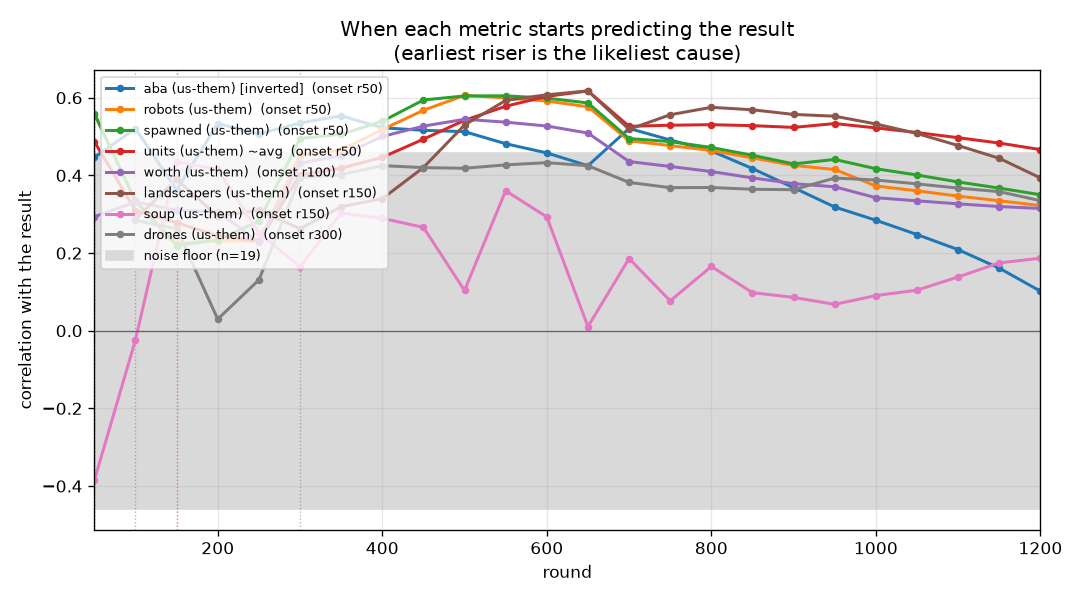
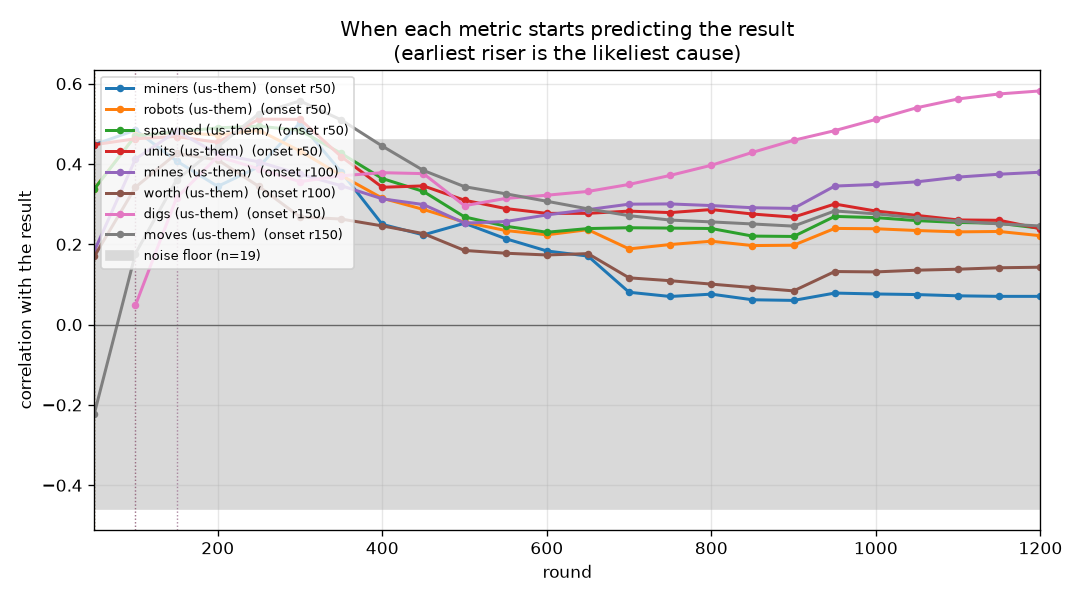
Block 34; miners step off the perch
Claude-Session: https://claude.ai/code/session_01CTUHPRaZ9DbYUkpWKYf2Y2

diff --git a/src/bot/Miner.java b/src/bot/Miner.java
@@ -46,6 +46,9 @@ public strictfp class Miner extends Robot {
             // boxed in (a corner seat on the map edge has only ring tiles and the HQ as neighbours): slide along the ring
             for (int i = 8; --i >= 0;) { Direction d = DIRS[i]; MapLocation n = loc.add(d); if (onRing(n) && rc.canMove(d) && rc.canSenseLocation(n) && !rc.senseFlooding(n)) { rc.move(d); loc = rc.getLocation(); Debug.log("@offring slide"); return; } }
         }
+        if (!builder && MapState.perch != null && MapState.isPerch(loc) && rc.isReady()) {   // Iteration 24: the perch is reserved (a miner idling on V kept it at 9)
+            for (int i = 8; --i >= 0;) { Direction d = DIRS[i]; MapLocation n = loc.add(d); if (!MapState.isPerch(n) && !onRing(n) && !n.equals(MapState.home) && tryMove(d)) { Debug.log("@offperch"); return; } }
+        }
         if (floodDanger() && climb()) return;
         if (nearestEnemy != null && nearestEnemy.type == RobotType.DELIVERY_DRONE && nearestEnemyD2 <= 8 && fleeFrom(nearestEnemy.location)) return;
         if (builder && MapState.perch != null && round >= C.PERCH_ROUND && !perchFailed && perchDuty()) return;   // Iteration 24

diff --git a/src/bot/Landscaper.java b/src/bot/Landscaper.java
@@ -147,6 +147,7 @@ public strictfp class Landscaper extends Robot {
                 MapLocation t = tiles[i]; if (!rc.canSenseLocation(t)) continue;
                 RobotInfo r = rc.senseRobotAtLocation(t);
                 if (r != null && r.type.isBuilding()) continue;                                  // never bury a building
+                if (i < 2 && r != null) continue;                                                  // F and V only when empty (a miner standing on V rode up and blocked the vaporator)
                 if (i == 2 && (r == null || r.type != RobotType.MINER || r.team != us)) continue;   // B only under the builder
                 int e = rc.senseElevation(t); if (e >= target || e >= be || (i < 2 && e >= capFV)) continue;
                 Direction d = loc.directionTo(t); if (!rc.canDepositDirt(d)) continue;

diff --git a/progress/ONSET.md b/progress/ONSET.md
@@ -12,46 +12,46 @@ See `progress/METRICS.md` for how each quantity is computed.
 
 | onset | anti | metric | peak corr | r100 | r200 | r300 | r400 | r600 | r900 |
 |---|---|---|---|---|---|---|---|---|---|
-| r50 | - | aba (us-them) [inverted] | +0.55 | +0.52 | +0.53 | +0.53 | +0.52 | +0.46 | +0.37 |
-| r50 | - | aba (us-them) [inverted] ~avg | +0.61 | +0.51 | +0.49 | +0.52 | +0.54 | +0.51 | +0.53 |
-| r50 | - | robots (us-them) | +0.61 | +0.33 | +0.23 | +0.45 | +0.52 | +0.59 | +0.43 |
-| r50 | - | robots (us-them) ~avg | +0.60 | +0.43 | +0.31 | +0.49 | +0.51 | +0.60 | +0.48 |
-| r50 | - | spawned (us-them) | +0.60 | +0.33 | +0.23 | +0.50 | +0.54 | +0.60 | +0.43 |
-| r50 | - | spawned (us-them) ~avg | +0.62 | +0.43 | +0.31 | +0.51 | +0.54 | +0.62 | +0.50 |
-| r50 | - | units (us-them) ~avg | +0.62 | +0.31 | +0.24 | +0.40 | +0.45 | +0.60 | +0.52 |
-| r100 | - | worth (us-them) | +0.54 | +0.33 | +0.31 | +0.43 | +0.50 | +0.53 | +0.38 |
-| r100 | - | worth (us-them) ~avg | +0.53 | +0.33 | +0.33 | +0.49 | +0.50 | +0.53 | +0.43 |
-| r150 | - | landscapers (us-them) | +0.62 | +0.29 | +0.29 | +0.26 | +0.34 | +0.61 | +0.56 |
-| r150 | - | landscapers (us-them) ~avg | +0.64 | +0.29 | +0.35 | +0.27 | +0.32 | +0.60 | +0.58 |
-| r150 | - | soup (us-them) | +0.44 | -0.02 | +0.42 | +0.16 | +0.29 | +0.29 | +0.09 |
-| r200 | - | soup (us-them) ~avg | -0.39 | -0.13 | +0.31 | +0.28 | +0.34 | +0.35 | +0.26 |
-| r300 | - | drones (us-them) | +0.43 | +0.28 | +0.03 | +0.39 | +0.43 | +0.43 | +0.36 |
-| r300 | - | drones (us-them) ~avg | +0.43 | +0.28 | +0.19 | +0.39 | +0.42 | +0.43 | +0.38 |
-| r300 | - | mines (us-them) | +0.59 | +0.09 | +0.02 | +0.46 | +0.54 | +0.58 | +0.45 |
-| r300 | - | mines (us-them) ~avg | +0.59 | +0.07 | +0.08 | +0.50 | +0.52 | +0.58 | +0.49 |
-| r300 | - | pickups (us-them) | +0.48 | . | +0.31 | +0.32 | +0.46 | +0.45 | +0.41 |
-| r300 | - | pickups (us-them) ~avg | +0.47 | . | +0.30 | +0.31 | +0.39 | +0.45 | +0.42 |
-| r300 | - | units (us-them) | +0.62 | +0.19 | +0.16 | +0.40 | +0.49 | +0.62 | +0.48 |
-| r400 | - | miners (us-them) | +0.49 | -0.04 | -0.05 | +0.26 | +0.39 | +0.46 | +0.27 |
-| r400 | - | miners (us-them) ~avg | +0.49 | +0.17 | +0.01 | +0.25 | +0.30 | +0.40 | +0.31 |
-| r500 | - | cov (us-them) | +0.46 | +0.09 | -0.04 | +0.25 | +0.26 | +0.37 | +0.41 |
-| r500 | r950 | died (us-them) [inverted] | +0.45 | . | +0.05 | -0.02 | +0.18 | +0.45 | -0.03 |
-| r500 | - | digs (us-them) | +0.67 | +0.14 | +0.25 | +0.25 | +0.26 | +0.48 | +0.65 |
-| r500 | - | dirtDeps (us-them) | +0.70 | +0.12 | +0.23 | +0.21 | +0.23 | +0.46 | +0.68 |
-| r550 | - | digs (us-them) ~avg | +0.66 | +0.14 | +0.25 | +0.23 | +0.25 | +0.36 | +0.51 |
-| r550 | - | moves (us-them) | +0.40 | -0.08 | +0.02 | +0.19 | +0.20 | +0.36 | +0.33 |
-| r600 | - | cov (us-them) ~avg | +0.41 | -0.06 | -0.08 | +0.13 | +0.21 | +0.30 | +0.33 |
-| r600 | - | died (us-them) [inverted] ~avg | +0.33 | . | +0.08 | +0.02 | +0.08 | +0.31 | +0.17 |
-| r600 | - | dirtDeps (us-them) ~avg | +0.70 | +0.12 | +0.23 | +0.19 | +0.21 | +0.33 | +0.50 |
-| r950 | - | moves (us-them) ~avg | +0.33 | -0.14 | -0.00 | +0.17 | +0.19 | +0.28 | +0.29 |
+| r50 | - | miners (us-them) | +0.50 | +0.48 | +0.34 | +0.50 | +0.25 | +0.18 | +0.06 |
+| r50 | - | miners (us-them) ~avg | +0.53 | +0.53 | +0.45 | +0.47 | +0.44 | +0.33 | +0.19 |
+| r50 | - | robots (us-them) | +0.48 | +0.47 | +0.47 | +0.43 | +0.31 | +0.22 | +0.20 |
+| r50 | - | robots (us-them) ~avg | +0.50 | +0.47 | +0.49 | +0.49 | +0.44 | +0.30 | +0.24 |
+| r50 | - | spawned (us-them) | +0.49 | +0.47 | +0.49 | +0.48 | +0.36 | +0.23 | +0.22 |
+| r50 | - | spawned (us-them) ~avg | +0.51 | +0.47 | +0.50 | +0.51 | +0.48 | +0.33 | +0.27 |
+| r50 | - | units (us-them) | +0.51 | +0.46 | +0.45 | +0.51 | +0.34 | +0.28 | +0.27 |
+| r50 | - | units (us-them) ~avg | +0.51 | +0.49 | +0.49 | +0.51 | +0.47 | +0.35 | +0.32 |
+| r100 | - | mines (us-them) | +0.48 | +0.41 | +0.43 | +0.37 | +0.31 | +0.27 | +0.29 |
+| r100 | - | mines (us-them) ~avg | +0.45 | +0.37 | +0.45 | +0.43 | +0.39 | +0.30 | +0.30 |
+| r100 | - | worth (us-them) | +0.43 | +0.34 | +0.41 | +0.27 | +0.25 | +0.17 | +0.08 |
+| r100 | - | worth (us-them) ~avg | +0.43 | +0.32 | +0.43 | +0.36 | +0.31 | +0.21 | +0.14 |
+| r150 | - | digs (us-them) | +0.58 | +0.05 | +0.42 | +0.36 | +0.38 | +0.32 | +0.46 |
+| r150 | - | moves (us-them) | +0.56 | +0.18 | +0.44 | +0.56 | +0.44 | +0.31 | +0.25 |
+| r200 | - | digs (us-them) ~avg | +0.47 | +0.05 | +0.38 | +0.38 | +0.38 | +0.31 | +0.38 |
+| r200 | - | dirtDeps (us-them) | +0.56 | +0.01 | +0.42 | +0.33 | +0.36 | +0.33 | +0.45 |
+| r200 | - | dirtDeps (us-them) ~avg | +0.46 | +0.01 | +0.38 | +0.36 | +0.36 | +0.31 | +0.39 |
+| r200 | - | landscapers (us-them) | +0.47 | +0.06 | +0.31 | +0.39 | +0.40 | +0.44 | +0.45 |
+| r200 | - | moves (us-them) ~avg | +0.52 | +0.04 | +0.39 | +0.51 | +0.50 | +0.37 | +0.29 |
+| r250 | - | landscapers (us-them) ~avg | +0.49 | +0.06 | +0.28 | +0.34 | +0.39 | +0.43 | +0.49 |
+| r250 | r800 | soup (us-them) | +0.46 | -0.11 | -0.14 | +0.46 | +0.25 | +0.31 | -0.34 |
+| r450 | - | soup (us-them) ~avg | +0.40 | -0.11 | -0.05 | +0.21 | +0.28 | +0.40 | -0.10 |
+| r750 | - | netguns (us-them) | +0.49 | . | . | . | +0.23 | +0.15 | +0.45 |
+| r750 | - | netguns (us-them) ~avg | +0.47 | . | . | . | +0.23 | +0.22 | +0.39 |
+| r950 | - | cov (us-them) | +0.47 | -0.19 | +0.17 | +0.11 | +0.00 | +0.09 | +0.30 |
+| - | - | aba (us-them) [inverted] | -0.28 | +0.02 | +0.16 | +0.12 | +0.18 | -0.16 | -0.19 |
+| - | - | aba (us-them) [inverted] ~avg | -0.29 | -0.02 | +0.08 | +0.10 | +0.17 | -0.05 | -0.17 |
+| - | - | cov (us-them) ~avg | +0.29 | -0.21 | -0.06 | +0.04 | +0.04 | +0.02 | +0.15 |
+| - | r1100 | died (us-them) [inverted] | -0.35 | -0.16 | -0.35 | -0.22 | -0.03 | +0.08 | -0.18 |
+| - | r200 | died (us-them) [inverted] ~avg | -0.31 | -0.16 | -0.31 | -0.30 | -0.18 | -0.04 | -0.13 |
+| - | - | drones (us-them) | +0.29 | +0.15 | +0.29 | +0.10 | +0.04 | +0.08 | +0.18 |
+| - | - | drones (us-them) ~avg | +0.22 | +0.15 | +0.21 | +0.18 | +0.11 | +0.05 | +0.14 |
 | - | - | drowned (us-them) [inverted] | . | . | . | . | . | . | . |
 | - | - | drowned (us-them) [inverted] ~avg | . | . | . | . | . | . | . |
-| - | - | hqBuried (us-them) [inverted] | +0.16 | +0.16 | . | . | . | . | +0.13 |
-| - | - | hqBuried (us-them) [inverted] ~avg | +0.16 | +0.16 | . | . | . | . | +0.13 |
-| - | - | netguns (us-them) | +0.27 | . | . | . | . | +0.00 | +0.05 |
-| - | - | netguns (us-them) ~avg | +0.13 | . | . | . | . | +0.00 | +0.05 |
-| - | - | vaporators (us-them) | +0.29 | -0.20 | -0.03 | +0.24 | +0.26 | +0.28 | +0.26 |
-| - | - | vaporators (us-them) ~avg | +0.28 | -0.20 | -0.11 | +0.22 | +0.24 | +0.27 | +0.25 |
+| - | - | hqBuried (us-them) [inverted] | . | . | . | . | . | . | . |
+| - | - | hqBuried (us-them) [inverted] ~avg | . | . | . | . | . | . | . |
+| - | - | pickups (us-them) | +0.29 | +0.16 | +0.16 | +0.21 | +0.28 | +0.14 | -0.20 |
+| - | - | pickups (us-them) ~avg | +0.27 | +0.16 | +0.18 | +0.22 | +0.26 | +0.22 | -0.08 |
+| - | - | vaporators (us-them) | -0.29 | -0.11 | -0.03 | -0.06 | +0.06 | +0.03 | +0.01 |
+| - | - | vaporators (us-them) ~avg | -0.25 | -0.11 | -0.14 | -0.08 | -0.01 | +0.02 | +0.02 |
 
 **Reading it.** Earliest onset is the first place to look: temporal precedence is the one causal hint a
 correlation can honestly give. Late-onset metrics are usually the scoreboard rather than the cause -- by then

diff --git a/TRAINING_LOG.md b/TRAINING_LOG.md
@@ -1003,6 +1003,10 @@ replay. Side finding: on Prison the incumbent's own post-r400 building spree (si
 two net guns at distance 3, on the helpers' dig tiles) costs it 13% of ring; a parked builder
 scored 1823 vs 1595.
 
+## Block 34 -- g_iter3 against the challenge pool (run block34, 2026-09-24)
+
+48 games: **12/48 (25%)**; cumulative for g_iter3 232/1068 (21.7%). Elo 1354, rank 65 of 66.
+
 ## Block 33 -- g_iter3 against the challenge pool (run block33, 2026-09-24)
 
 48 games: **10/48 (20%)**; cumulative for g_iter3 220/1020 (21.5%). Elo 1310, rank 65 of 66.
